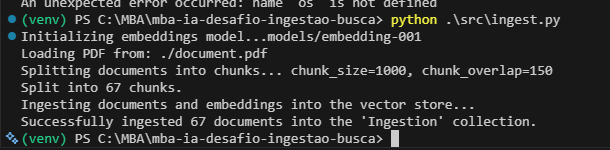
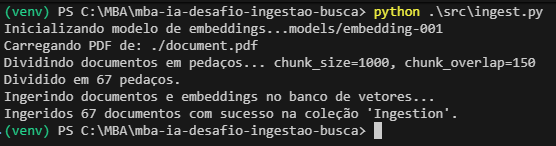
Refactor ingestion pipeline to use config attributes and remove dotenv dependency

diff --git a/src/ingest.py b/src/ingest.py
@@ -3,9 +3,9 @@ from langchain.text_splitter import RecursiveCharacterTextSplitter
 from langchain_google_genai import GoogleGenerativeAIEmbeddings
 from langchain_community.vectorstores.pgvector import PGVector
 import os
-from dotenv import load_dotenv
 from langchain_core.documents import Document
 from typing import List
+from config import config
 
 class DocumentLoader:
     """Gerencia o carregamento de documentos de um caminho especificado."""
@@ -25,7 +25,7 @@ class TextChunker:
         self.splitter = RecursiveCharacterTextSplitter(chunk_size=chunk_size, chunk_overlap=chunk_overlap)
 
     def split(self, documents: List[Document]) -> List[Document]:
-        print(f"Dividindo documentos em pedaços... tamanho_pedaço={self.splitter._chunk_size}, sobreposição_pedaço={self.splitter._chunk_overlap}")
+        print(f"Dividindo documentos em pedaços... chunk_size={self.splitter._chunk_size}, chunk_overlap={self.splitter._chunk_overlap}")
         docs = self.splitter.split_documents(documents)
         print(f"Dividido em {len(docs)} pedaços.")
         return docs
@@ -61,12 +61,12 @@ class IngestionPipeline:
     """Orquestra o processo de ingestão de documentos."""
     def __init__(self, config):
         self.config = config
-        self.loader = DocumentLoader(config['pdf_path'])
+        self.loader = DocumentLoader(config.pdf_path)
         self.splitter = TextChunker()
-        self.embedding_provider = EmbeddingProvider(config['embedding_model'], config['api_key'])
+        self.embedding_provider = EmbeddingProvider(config.google_embedding_model, config.google_api_key)
         self.vector_store = VectorStoreManager(
-            config['db_url'], 
-            config['collection_name'], 
+            config.database_url, 
+            config.collection_name, 
             self.embedding_provider.get_embeddings()
         )
 
@@ -75,37 +75,8 @@ class IngestionPipeline:
         docs = self.splitter.split(documents)
         self.vector_store.ingest(docs)
 
-class ChatInterface:
-    """Gerencia a interface de chat na linha de comando."""
-    def __init__(self, llm):
-        self.chain = search_prompt(llm)
-
-    def start(self):
-        """Inicia a sessão de chat."""
-        if not self.chain:
-            print("Não foi possível iniciar o chat. Verifique os erros de inicialização.")
-            return
-
-        while True:
-            question = input("\nSua pergunta: ")
-            if question.lower() == 'sair':
-                print("Até logo!")
-                break
-
-            response = self.chain.invoke(question)
-            print("\nResposta:\n", response)
-
 def main():
     """Função principal para executar o pipeline de ingestão."""
-    load_dotenv()
-    config = {
-        'pdf_path': os.getenv("PDF_PATH"),
-        'db_url': os.getenv("DATABASE_URL"),
-        'collection_name': os.getenv("PG_VECTOR_COLLECTION_NAME"),
-        'embedding_model': os.getenv("GOOGLE_EMBEDDING_MODEL"),
-        'api_key': os.getenv("GOOGLE_API_KEY")
-    }
-    
     try:
         pipeline = IngestionPipeline(config)
         pipeline.run()
